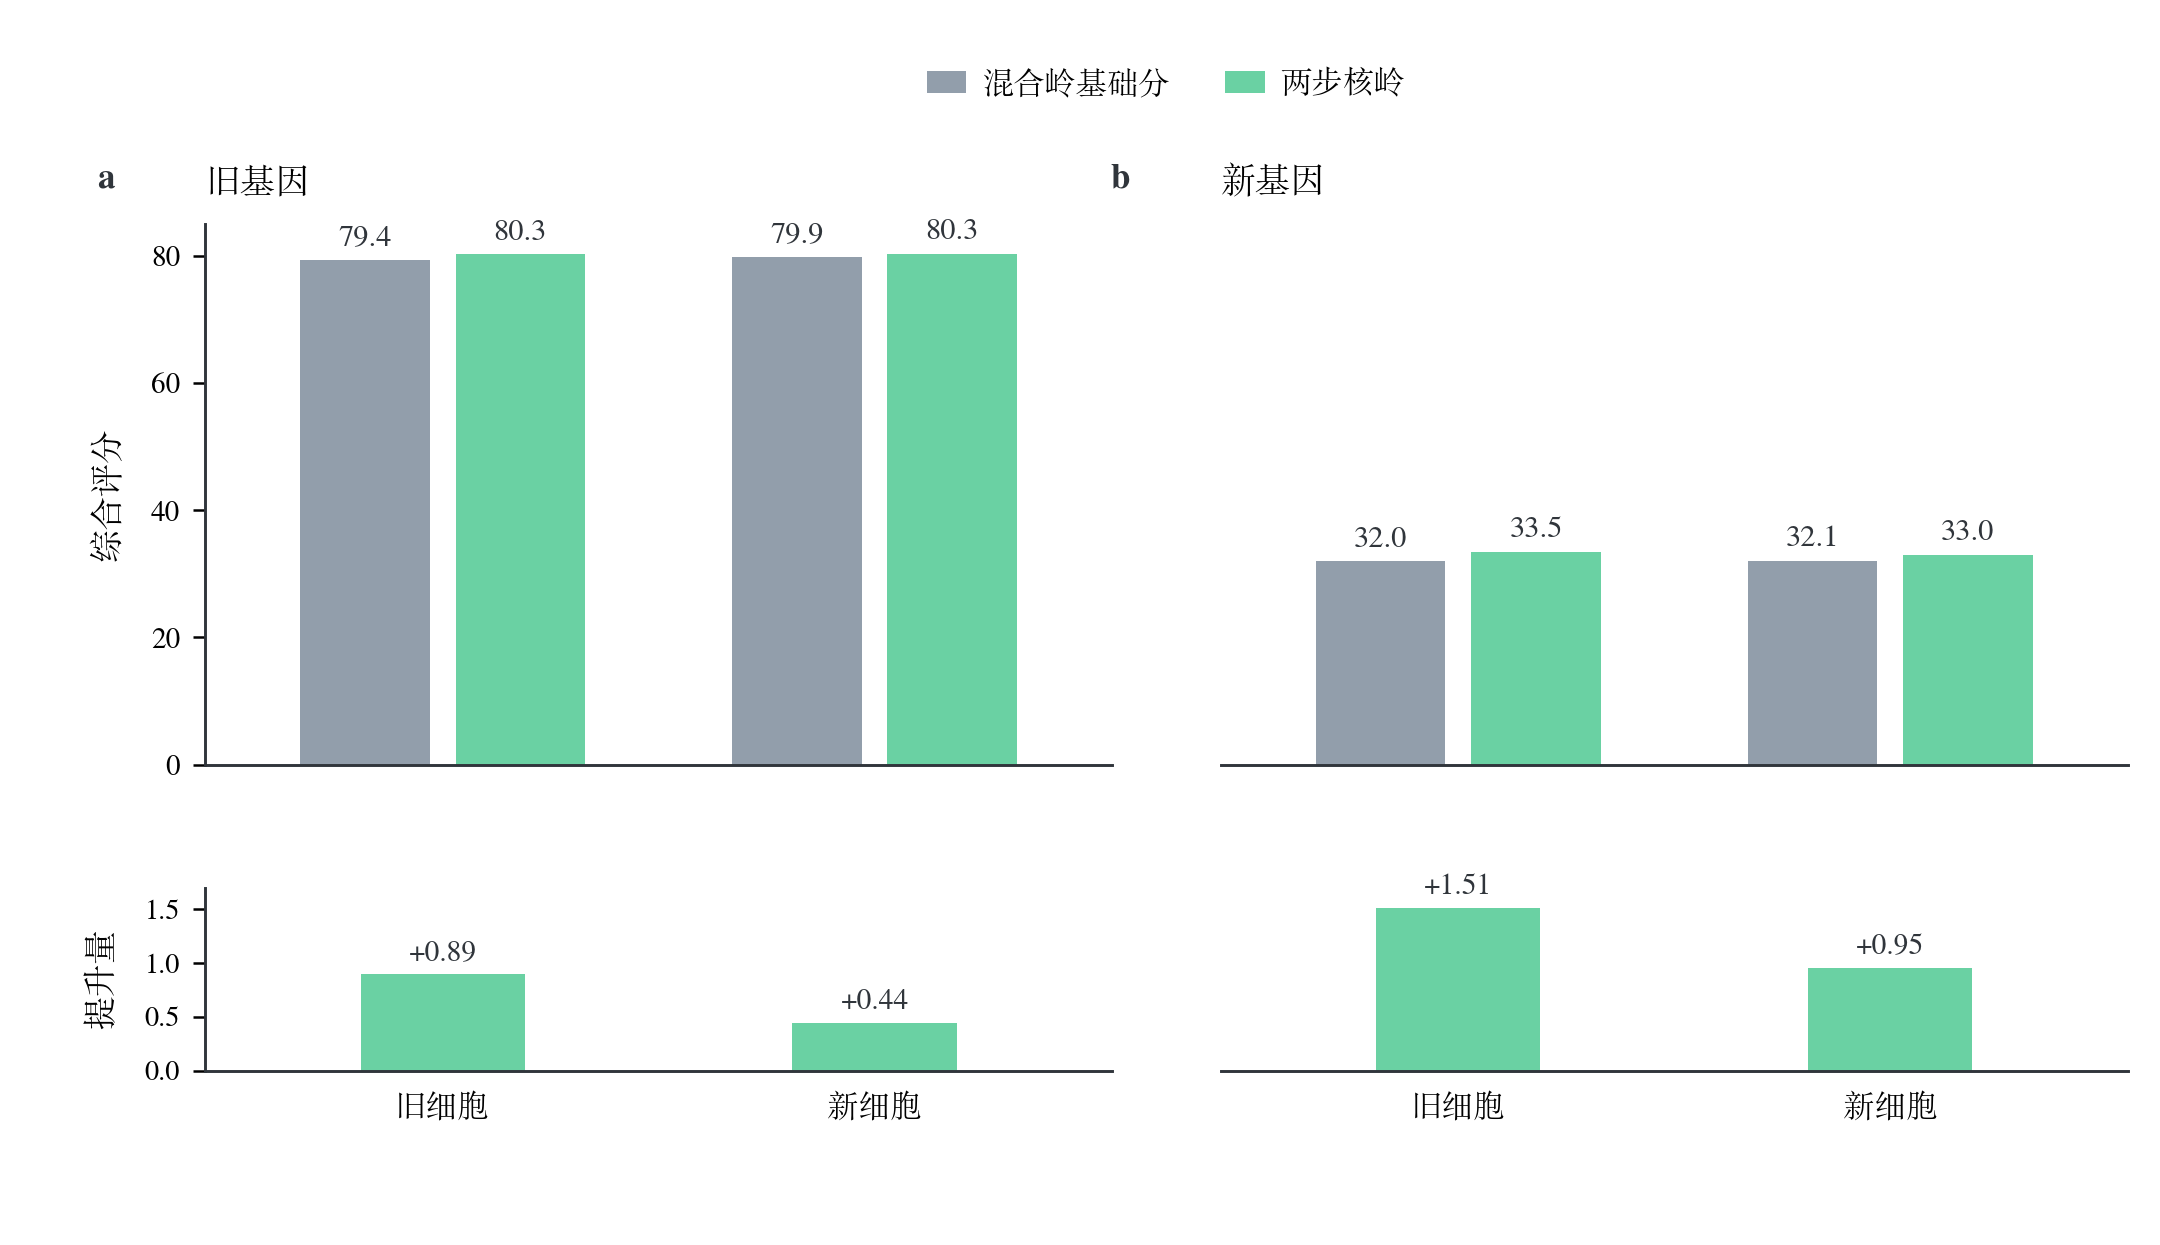
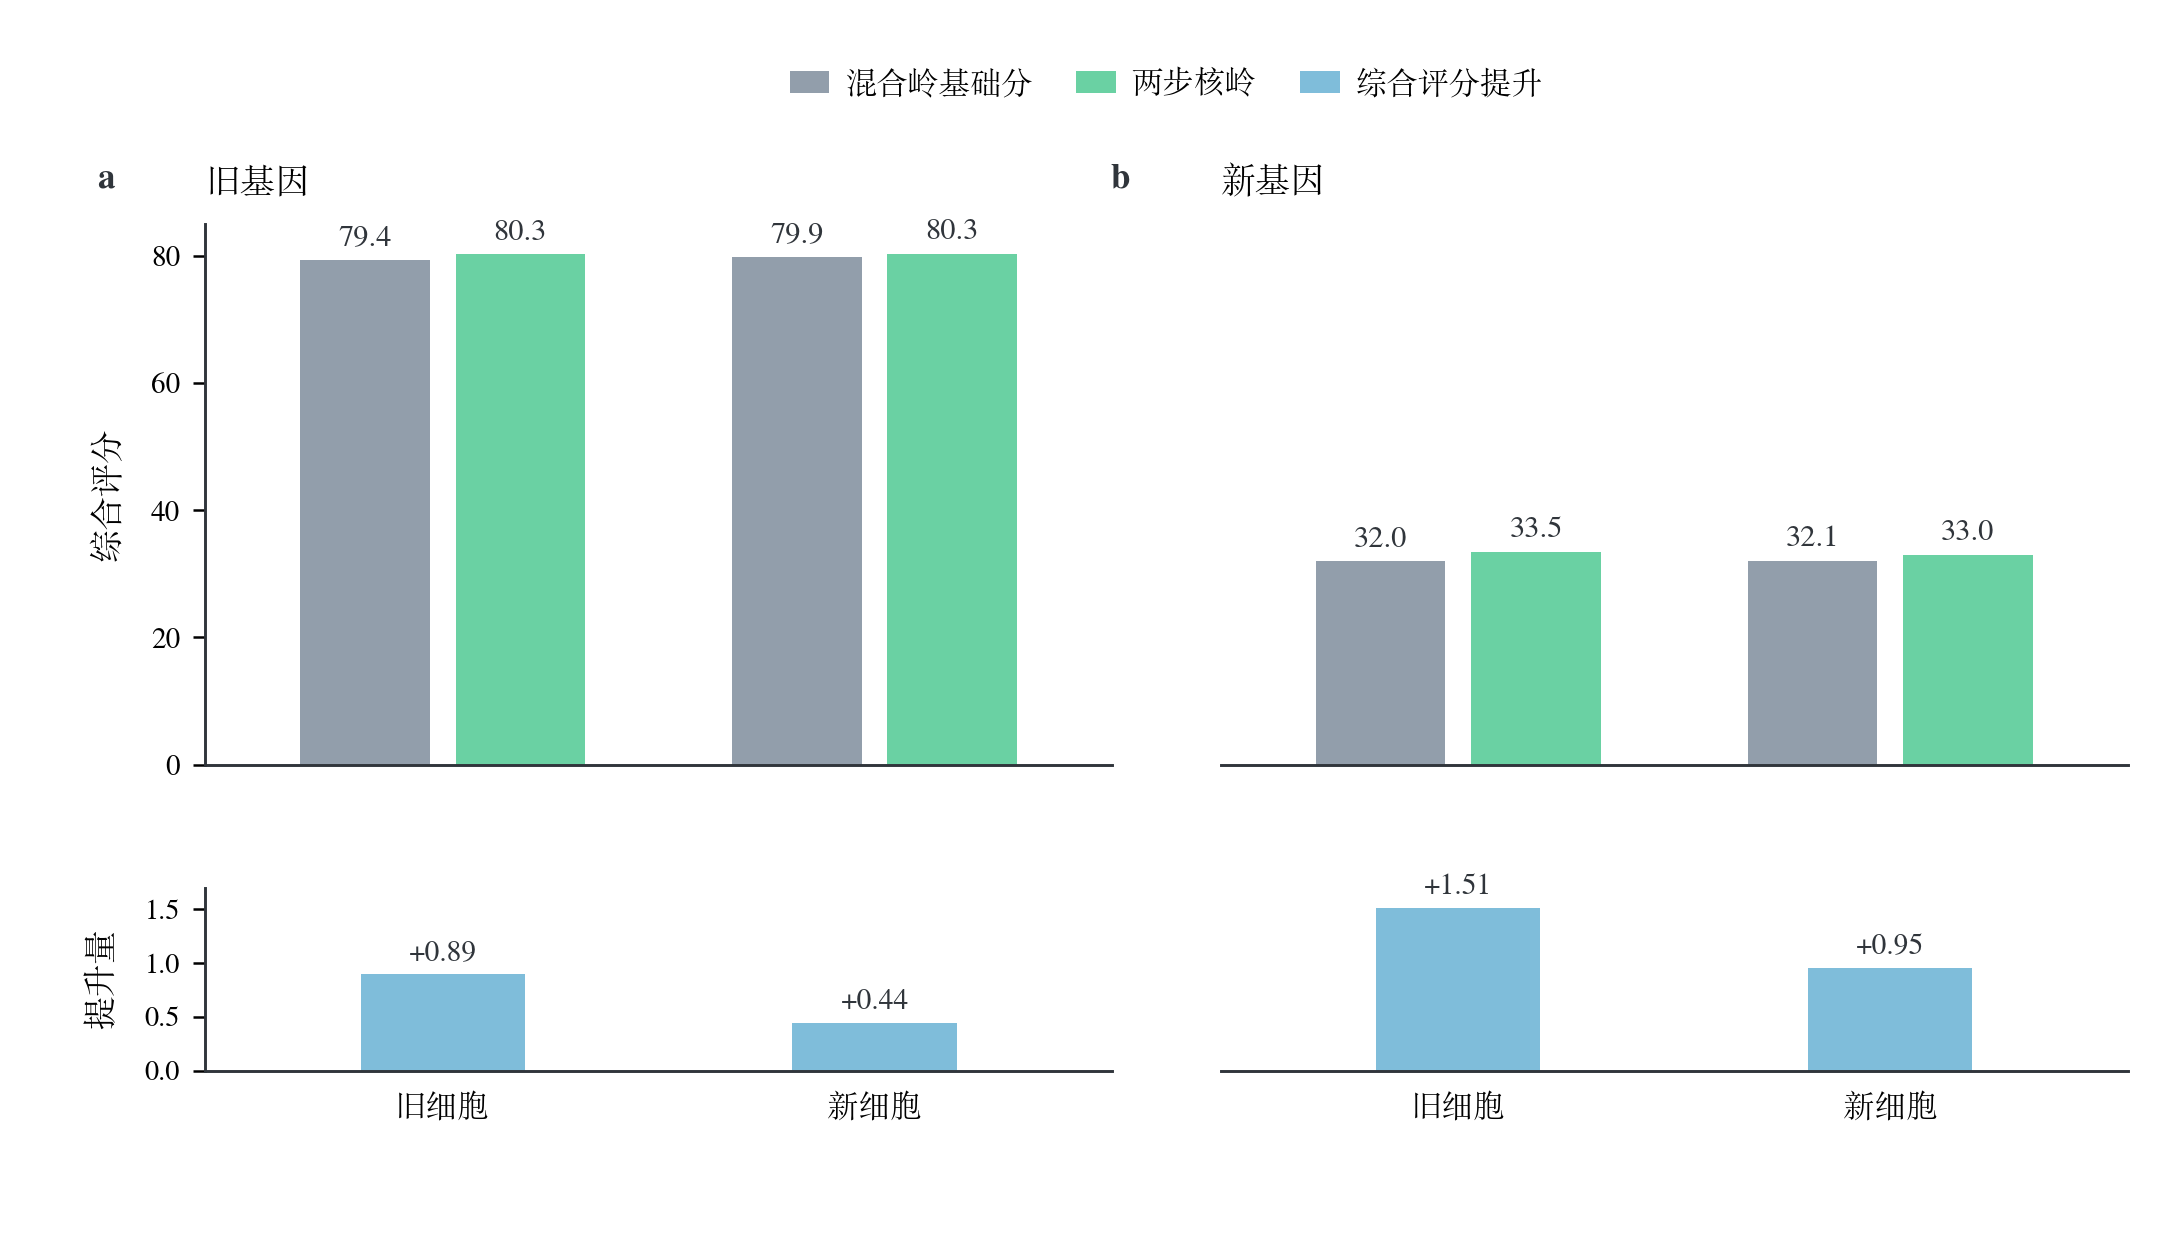
v8.2.24：修正图7提升量颜色语义

diff --git a/C题建模/scripts/figures/draw_figure7_cold_start_scores.py b/C题建模/scripts/figures/draw_figure7_cold_start_scores.py
@@ -31,6 +31,8 @@ from utils.plot_style import PALETTE, apply_publication_style, audit_design, aud
 MODEL_ORDER = ["stage4_hybrid_base", "two_step_kernel_ridge"]
 MODEL_LABELS = ["混合岭基础分", "两步核岭"]
 MODEL_COLORS = [PALETTE["known"], PALETTE["primary"]]
+IMPROVEMENT_LABEL = "综合评分提升"
+IMPROVEMENT_COLOR = PALETTE["secondary"]
 PANEL_CONFIG = [
     ("旧基因", ["old_cell_old_gene", "new_cell_old_gene"]),
     ("新基因", ["old_cell_new_gene", "new_cell_new_gene"]),
@@ -223,7 +225,7 @@ def draw_figure() -> tuple[plt.Figure, pd.DataFrame]:
             group_centers,
             improvements,
             width=0.38,
-            color=PALETTE["primary"],
+            color=IMPROVEMENT_COLOR,
             edgecolor="none",
             linewidth=0,
             zorder=2,
@@ -265,15 +267,18 @@ def draw_figure() -> tuple[plt.Figure, pd.DataFrame]:
         Patch(facecolor=color, edgecolor="none", label=label)
         for label, color in zip(MODEL_LABELS, MODEL_COLORS)
     ]
+    handles.append(
+        Patch(facecolor=IMPROVEMENT_COLOR, edgecolor="none", label=IMPROVEMENT_LABEL)
+    )
     legend = fig.legend(
         handles=handles,
         loc="upper center",
         bbox_to_anchor=(0.54, 0.955),
-        ncol=2,
+        ncol=3,
         frameon=False,
         handlelength=1.35,
         handleheight=0.78,
-        columnspacing=1.9,
+        columnspacing=1.5,
         handletextpad=0.55,
         borderaxespad=0,
     )

diff --git a/C题建模/figures/contracts/图7_四类冷启动总分.md b/C题建模/figures/contracts/图7_四类冷启动总分.md
@@ -9,7 +9,7 @@
 - **类别：** 主模型结果图，采用“绝对成绩 + 改善量”的两层双分面。
 - **上层 A/B：** 左侧为旧基因、右侧为新基因；横轴均为旧细胞、新细胞，每组分别画混合岭基础分和两步核岭总分。两个面板保持相同的 `0—85` 纵轴，使约 80 分与约 33 分的差距不被截断坐标掩盖。
 - **下层：** 与上层细胞位置对齐，分别画两步核岭相对基础分的综合评分提升量；旧基因和新基因两侧共享 `0—1.7` 纵轴，使 `0.44—1.51` 分的实际改善能够被看见。
-- **颜色规则：** 基础分使用灰蓝 `#929EAB`，两步核岭使用清新绿 `#6AD1A3`；柱体不加黑边，背景保持白色。
+- **颜色规则：** 基础分使用灰蓝 `#929EAB`，两步核岭使用清新绿 `#6AD1A3`，派生的综合评分提升使用独立浅蓝 `#7FBDDA`；三种颜色分别只表示一个对象，并全部进入共享图例。柱体不加黑边，背景保持白色。
 - **标注规则：** 上层柱顶标一位小数，下层提升量标两位小数；不在图中追加箭头和解释句。
 - **尺度边界：** 不截断上层柱状图纵轴，也不强迫绝对成绩和提升量共用同一尺度；两层分别回答“哪类对象难”和“模型提高多少”。
 - **删减规则：** 本图不重复展示 NDCG、Precision、RMSE 和 Spearman；这些指标交给图 9。
